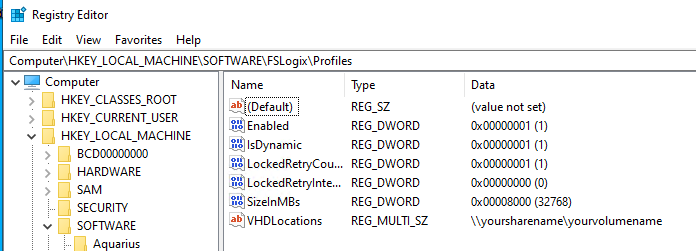
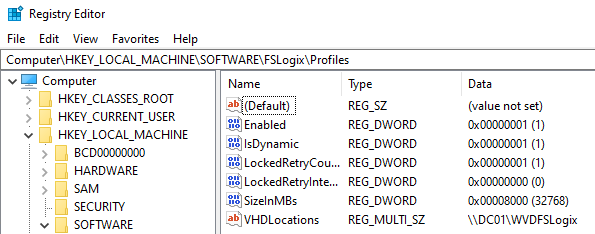
04200916

Changed region(s): [[0.0, 0.0, 1.0, 1.0]]

diff --git a/docs/Azure/BootCamps/WVD/Optimize/Optimize-Lab10-FSLogix-Installation-and-Configuration.md b/docs/Azure/BootCamps/WVD/Optimize/Optimize-Lab10-FSLogix-Installation-and-Configuration.md
@@ -37,7 +37,7 @@ In this lab you will install and configure FSLogix to utilize a share on your do
 
 Installing the FSLogix agent can be done a few different ways. In this exercise we will install it via double hop RDP method where we will leverage the existing RDP session to the domain controller and then from there RDP into the session hosts to install the agent.
 
-1. From within the RDP session of the domain controller by clicking on the **Start button** then selecting **Remote Desktop Connection** from the Start menu.  Establish an RDP session to the first session host from the **Personal Pool** which should be 10.10.10.4. If you connect and do not see Bob's profile, look the the correct IP address in the Azure Portal.
+1. From within the RDP session of the domain controller by clicking on the **Start button** then selecting **Remote Desktop Connection** from the Start menu.  Establish an RDP session to the first session host from the **Personal Pool** which should be 10.10.10.4. If you connect and do not see Bob's profile, look for the correct IP address in the Azure Portal.
 
 2. Login with the domain administrator credentials `<yourADdomain>\adadmin` and a password of `Complex.Password`.  
 
@@ -46,21 +46,23 @@ Installing the FSLogix agent can be done a few different ways. In this exercise 
     * Navigate to the `C:\Users` directory.
     * Stop the Windows Search service prior to deleting the profile:
         * Right-click on the Windows Start button and select **Computer Management**.
+        * Expand **Services and Applications**.
+        * Click on **Services**.
         * Scroll-down and select the **Windows Search**.
         * Right-click and select **Stop**.
-    * Back in File Explorer right-click the `C:\Users\BJones` directory and select **Delete**.
+    * Back in File Explorer right-click the `C:\Users\Bob.Jones` directory and select **Delete**.
 
     > If you are still unable to delete the profile, Bob Jones might be disconnected.  Open Task Manager, click the **Users** tab, and if Bob Jones is listed right-click and select **Disconnect**.
 
-4. Launch Microsoft Edge and navigate to [Download and Install FSLogix](https://docs.microsoft.com/fslogix/install-ht).
+4. Within the VM (not the domain controller), launch Microsoft Edge and navigate to [Download and Install FSLogix](https://docs.microsoft.com/fslogix/install-ht).
 
 5. Click **Open**, then **Compressed Folder Tools**, then **Extract All**, then **Extract**.
 
-6. Navigate to extraction folder, thex **x64** directory, then **Release** folder, and run **FSLogixAppsSetup** to install the FSLogix agent.  Complete a default installation.
+6. Navigate to the extraction folder, then **x64** directory, then **Release** folder, and run **FSLogixAppsSetup** to install the FSLogix agent.  Complete a default installation.
 
 7. Navigate to **Program Files** \> **FSLogix** \> **Apps** to confirm the agent installed.
 
-8. Open a Command Prompt and run **RegEdit32** as an administrator. Navigate to     **Computer\\HKEY_LOCAL_MACHINE\\software\\FSLogix\\**..
+8. Open a Command Prompt and run **RegEdit32** as an administrator. Navigate to **Computer\\HKEY_LOCAL_MACHINE\\software\\FSLogix\\**.
 
 9. Open PowerShell and execute the following commands:
 
@@ -72,8 +74,7 @@ Installing the FSLogix agent can be done a few different ways. In this exercise 
     Set-ItemProperty -Path HKLM:\Software\FSLogix\Profiles -Name "Enabled" -Type "Dword" -Value "1"
 
     #Create the VHDLocations
-    #EDIT THE \\SHARE\VOLUME value you saved earlier
-    New-ItemProperty -Path HKLM:\Software\FSLogix\Profiles -Name "VHDLocations" -Value \\yoursharename\yourvolumename -PropertyType MultiString -Force
+    New-ItemProperty -Path HKLM:\Software\FSLogix\Profiles -Name "VHDLocations" -Value \\DC01\WVDFSLogix -PropertyType MultiString -Force
 
     #Create the SizeInMBs
     Set-ItemProperty -Path HKLM:\Software\FSLogix\Profiles -Name "SizeInMBs" -Type "Dword" -Value "32768"
@@ -92,9 +93,11 @@ Installing the FSLogix agent can be done a few different ways. In this exercise 
 
     ![RegEdits](../attachments/RegEdits.PNG)
 
+11. **Restart** the virtual machine.
+
 ## Exercise 3 - Confirm FSLogix Functionality
 
-1. Restart the session host and then login again as Bob Jones to create the user profile.
+1. Login again as Bob Jones to create the user profile.
     * From your desktop launch the Remote Desktop client.
     * When prompted enter the credentials for Bob Jones:
         * Username: `Bob.Jones@<yourdomain>.onmicrosoft.com`
@@ -102,17 +105,14 @@ Installing the FSLogix agent can be done a few different ways. In this exercise 
 
     > During the logon process your should see a statement about FSLogix.
 
-2. You can get a status if FSLogix agent works by launching FRXTray that in:
-    “C:\\Program Files\\FSLogix\\Apps”
+2. You can get a status if the FSLogix agent works by launching FRXTray that in `C:\Program Files\FSLogix\Apps`.
 
 3. Then click on the traffic light that is in the tray. The light should be
     green.
 
-    ![image.png](../attachments/image-bc21ad1d-bfbd-484e-804d-ee5652135dfe.png)
-
     > Note: Sometimes the Profile status may not show green right away.
 
-4. Click on “**Advanced view**” and then go to “**Operational**” and look if you have no issue in the logs.
+4. Click on “**Advanced view**” and then go to **Events** and then click on **Operational** and confirm that you all **Informational** events in the logs.
 
     ![image.png](../attachments/image-fae2eb94-2c30-437f-8a3a-05ef6a659ad2.png)
 
@@ -124,6 +124,6 @@ Installing the FSLogix agent can be done a few different ways. In this exercise 
 
 8. Your should see a new folder for the profile of Bob Jones.
 
-    ![BobJonesProfileonDC](../attachments/BobJonesProfileonDC.PNG)
+    ![FSLogixProfileOnDC](../attachments/FSLogixProfileOnDC.PNG)
 
 ### Return to [Optimize Phase Labs](optimize.md)
